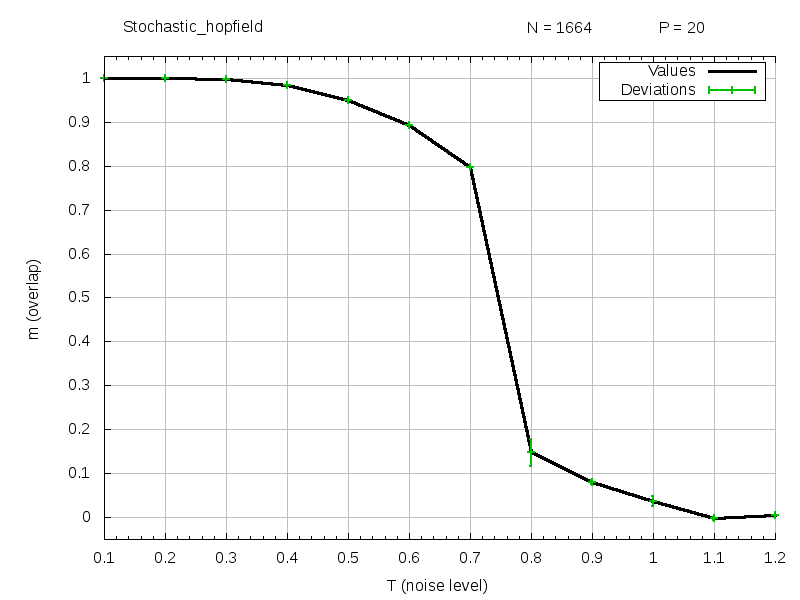
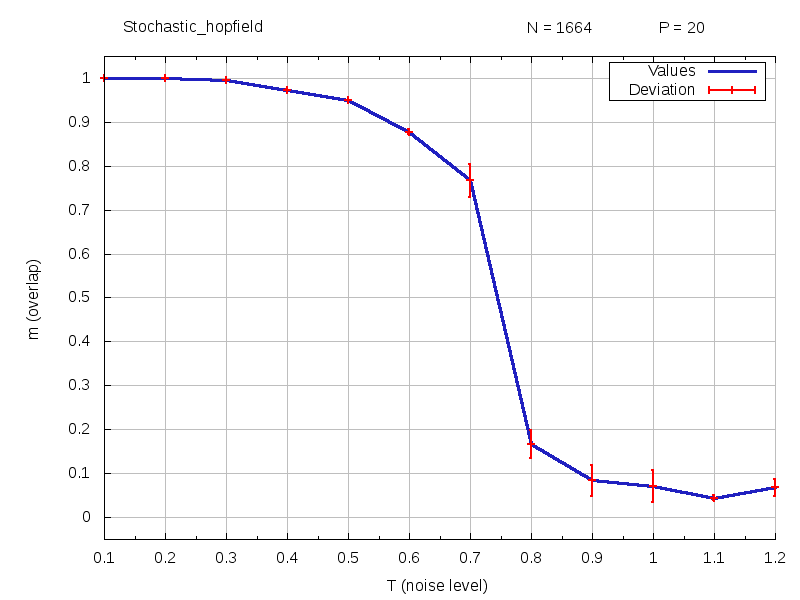
Subiendo los nuevos resultados para el caso estocástico y borrando los viejos. Ahora respetamos el α: para cada N usamos un P que mantenga la proporción P/N con respecto a los otros N

diff --git a/trunk/redes_neuronales/hopfield/Hopfield_estocastico.c b/trunk/redes_neuronales/hopfield/Hopfield_estocastico.c
@@ -207,7 +207,6 @@ int main (int argc, char **argv)
 	
 	for (T = Thop ; T <= Tmax ; T += Thop) {
 		
-		fprintf (stderr, "\rLoop T = %.1f", T);
 		reset_media_m ();
 		reset_var_m ();
 		nu = 0;
